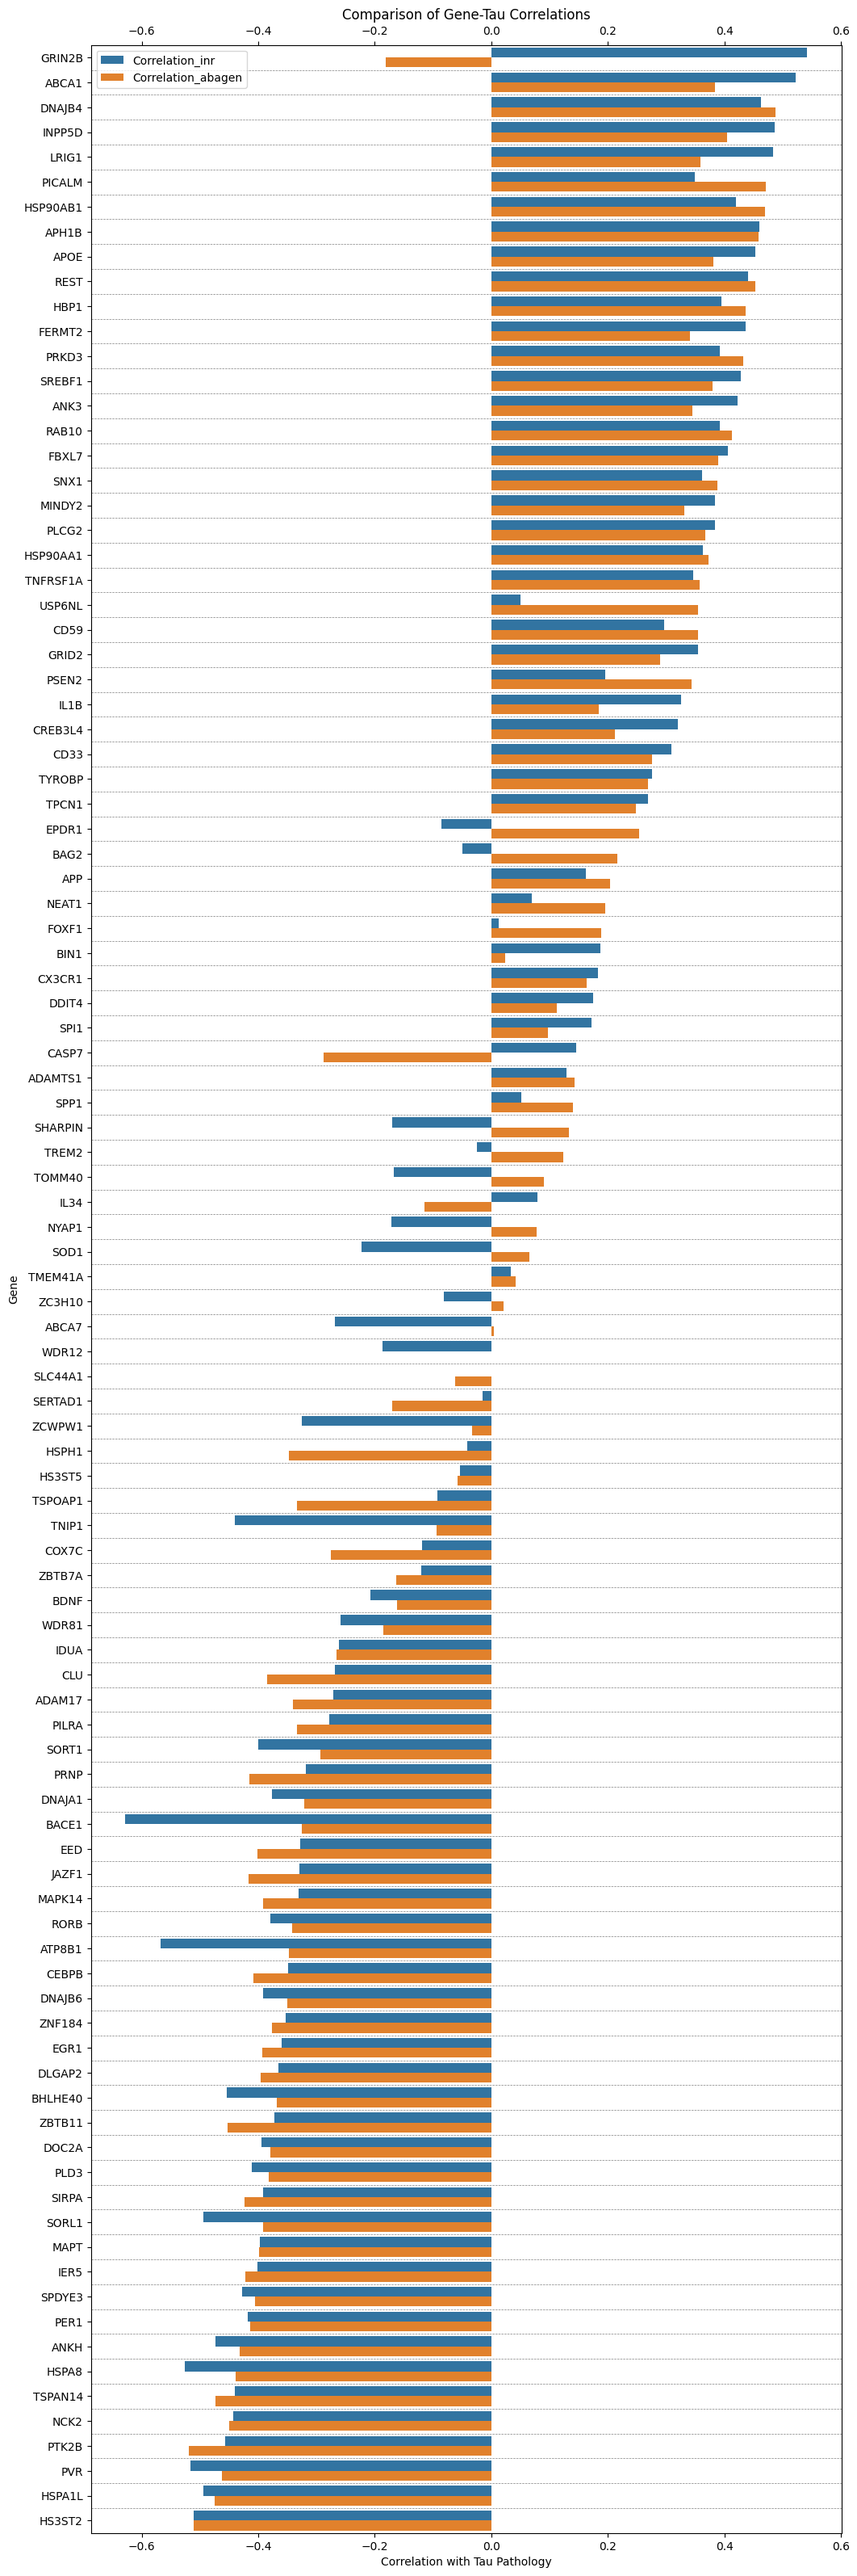
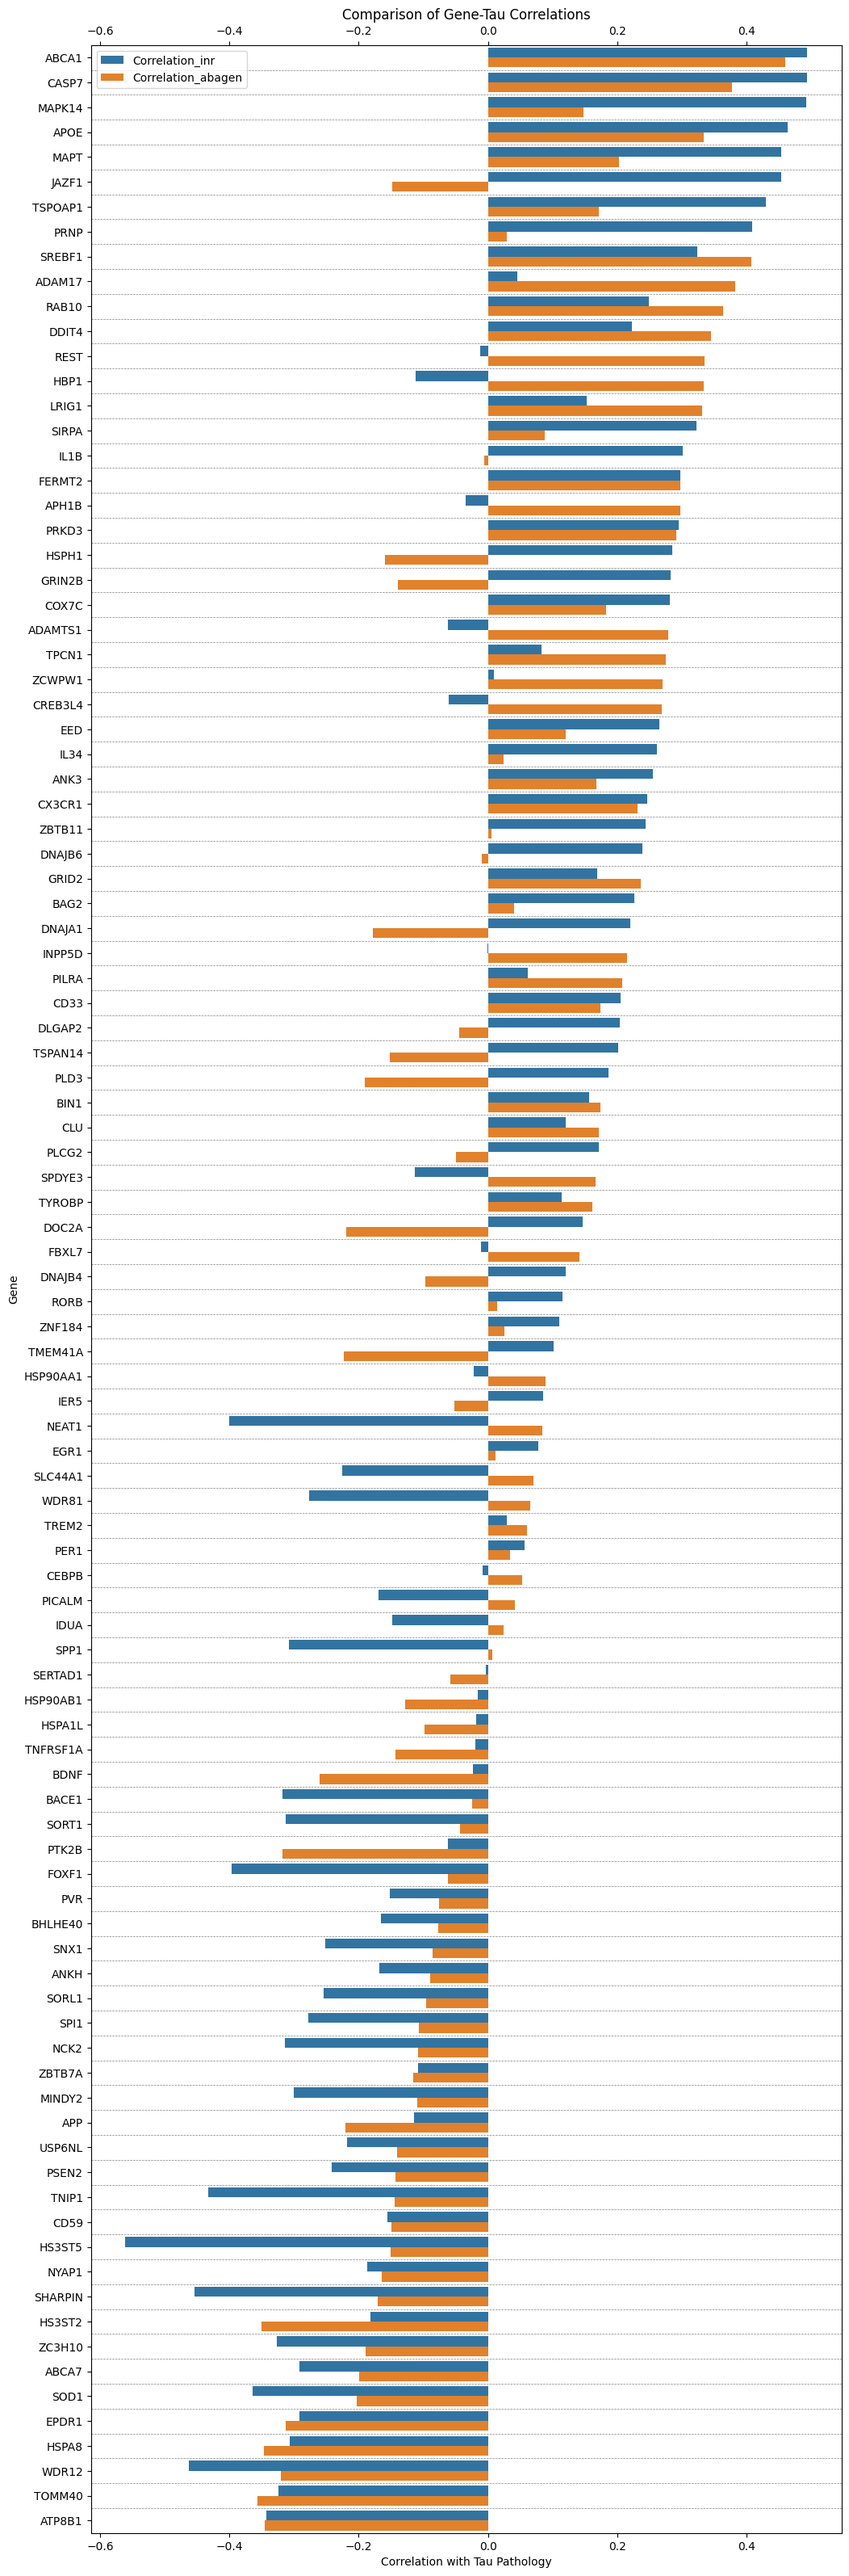
update

diff --git a/train_gene_net.py b/train_gene_net.py
@@ -145,7 +145,7 @@ def train(config):
             
             if loss < prev_loss:
                 model_path_prefix = (
-                    f"./models_test/{config.nonlin}_{config.matter}_{config.donor}_{config.lr}_"
+                    f"./models_new/{config.nonlin}_{config.matter}_{config.donor}_{config.lr}_"
                     f"{5 + 2 * config.encoding_dim}x"
                     f"{config.hidden_features}x"
                     f"{config.hidden_layers}_"
@@ -198,7 +198,7 @@ def train(config):
             'max_coords': brain.max_coords.numpy().item()
         }
             
-        with open(f'./models_test/max_min_values_{config.gene_order}_sep.csv', 'a') as file:
+        with open(f'./models_new/max_min_values_{config.gene_order}_sep.csv', 'a') as file:
             writer = csv.writer(file)
             row = [str(value) for value in min_max_dict.values()]
             writer.writerow(row)
@@ -213,17 +213,17 @@ def train(config):
     
 def main():
     # matter: 83 or 246 depends on different atlas
-    wandb.init(project="brain_fitting526", entity="yuxizheng", config={
+    wandb.init(project="brain_111", entity="yuxizheng", config={
         "nonlin": 'siren', # 'wire' 'gauss' 'mfn' 'relu' 'siren' 'wire2d'
-        "matter": "83",
+        "matter": "83_new",
         "gene_order": "se",
         "lr": 1e-4,
         "hidden_layers": 12,
         "hidden_features": 512,
         "total_steps": 10000,
         "encoding_dim": 11,
-        "donor": "14380",
-        "device": 'cuda:3',
+        "donor": "10021",
+        "device": 'cuda:0',
     })
     
     train(wandb.config)
@@ -240,24 +240,24 @@ def main_sweep():
         train(wandb.config)
 
 if __name__ == "__main__":
-    sweep_configuration = {
-        "method": "grid", # bayes
-        "metric": {"goal": "minimize", "name": "loss"},
-        "parameters": {
-            "nonlin": {"values": ['siren', 'wire', 'gauss', 'relu']},
-            "matter": {"values": ['83']},
-            "gene_order": {"values": ['se']},
-            "lr": {"values": [1e-3, 3e-3, 5e-3, 1e-4,]},
-            "hidden_layers": {"values": [12]},
-            "hidden_features": {"values": [512]},
-            "total_steps": {"values": [10000]},
-            "encoding_dim": {"values": [11]},
-            # "donor": {"values": ['9861']},
-            "donor": {"values": ['9861', '10021', '12876', '14380', '15496', '15697']},
-            "device": {"values": ['cuda:3']},
-        },
-    }
+    # sweep_configuration = {
+    #     "method": "grid", # bayes
+    #     "metric": {"goal": "minimize", "name": "loss"},
+    #     "parameters": {
+    #         "nonlin": {"values": ['siren', 'wire', 'gauss', 'relu']},
+    #         "matter": {"values": ['83']},
+    #         "gene_order": {"values": ['se']},
+    #         "lr": {"values": [1e-3, 3e-3, 5e-3, 1e-4,]},
+    #         "hidden_layers": {"values": [12]},
+    #         "hidden_features": {"values": [512]},
+    #         "total_steps": {"values": [10000]},
+    #         "encoding_dim": {"values": [11]},
+    #         # "donor": {"values": ['9861']},
+    #         "donor": {"values": ['9861', '10021', '12876', '14380', '15496', '15697']},
+    #         "device": {"values": ['cuda:3']},
+    #     },
+    # }
 
-    sweep_id = wandb.sweep(sweep=sweep_configuration, project="brain_sweep")
-    wandb.agent(sweep_id, function=main_sweep)
-    # main()
+    # sweep_id = wandb.sweep(sweep=sweep_configuration, project="brain_sweep")
+    # wandb.agent(sweep_id, function=main_sweep)
+    main()

diff --git a/src/data/ii_pc1_se.py b/src/data/ii_pc1_se.py
@@ -13,7 +13,7 @@ def get_pc1_se_results(donor, matter="83"):
         
     gene_names = set(gene_names)
 
-    microarray_df = pd.read_csv(f"./data/abagendata/train_{matter}/{matter}_microarray_{donor}.csv")
+    microarray_df = pd.read_csv(f"./data/abagendata/train_{matter}_new/{matter}_microarray_{donor}.csv")
     microarray_df = microarray_df.iloc[:, 1:].T
     microarray_df.columns = microarray_df.iloc[0].astype(int).astype(str)
     microarray_df = microarray_df.iloc[1:]
@@ -40,7 +40,7 @@ def get_pc1_se_results(donor, matter="83"):
     gene_df_pca = gene_df_pca.sort_values(by="pc1", ascending=True)
     # gene_df_pca = gene_df_pca[['pc1']]
     # save gene_df to a new csv file
-    gene_df_pca.to_csv(f"./data/abagendata/train_{matter}/pc1_{donor}.csv")
+    gene_df_pca.to_csv(f"./data/abagendata/train_{matter}_new/pc1_{donor}.csv")
 
 
     # Spectrum Embedding
@@ -53,14 +53,14 @@ def get_pc1_se_results(donor, matter="83"):
     # gene_df_embedding = gene_df_embedding[['embedding']]
     scaler = MinMaxScaler()
     gene_df_embedding['se'] = scaler.fit_transform(gene_df_embedding[['se']])
-    gene_df_embedding.to_csv(f"./data/abagendata/train_{matter}/se_{donor}.csv")
+    gene_df_embedding.to_csv(f"./data/abagendata/train_{matter}_new/se_{donor}.csv")
     
 
 get_pc1_se_results("9861")
 get_pc1_se_results("10021")
-get_pc1_se_results("12876")
-get_pc1_se_results("14380")
-get_pc1_se_results("15496")
-get_pc1_se_results("15697")
+# get_pc1_se_results("12876")
+# get_pc1_se_results("14380")
+# get_pc1_se_results("15496")
+# get_pc1_se_results("15697")
 
 # exec(open('./src/data/pc1_se.py').read())

diff --git a/src/data/iii_data_merge.py b/src/data/iii_data_merge.py
@@ -5,8 +5,8 @@ import pandas as pd
 import numpy as np
 
 def merge_5d(mode, donor, matter='83'):
-    df = pd.read_csv(f"data/abagendata/train_{matter}/{mode}_{donor}.csv")
-    annot = pd.read_csv(f"data/abagendata/train_{matter}/{matter}_annotation_{donor}_4d.csv")
+    df = pd.read_csv(f"data/abagendata/train_{matter}_new/{mode}_{donor}.csv")
+    annot = pd.read_csv(f"data/abagendata/train_{matter}_new/{matter}_annotation_{donor}_4d.csv")
     df_long = df.melt(id_vars=[mode, 'gene_symbol'], var_name='well_id', value_name='value')
     annot = annot[["mni_x", "mni_y", "mni_z", "classification", "well_id"]]
     
@@ -19,13 +19,13 @@ def merge_5d(mode, donor, matter='83'):
     print(merged_df)
     merged_df = merged_df[['gene_symbol', 'well_id', 'mni_x', 'mni_y', 'mni_z', 'classification', 'value', mode]]
     merged_df = merged_df.sort_values(by=['gene_symbol', 'well_id'])
-    merged_df.to_csv(f"data/abagendata/train_{matter}/{mode}_{donor}_merged.csv", index=False)
+    merged_df.to_csv(f"data/abagendata/train_{matter}_new/{mode}_{donor}_merged.csv", index=False)
 
 merge_5d('se', '9861')
 merge_5d('se', "10021")
-merge_5d('se', "12876")
-merge_5d('se', "14380")
-merge_5d('se', "15496")
-merge_5d('se', "15697")
+# merge_5d('se', "12876")
+# merge_5d('se', "14380")
+# merge_5d('se', "15496")
+# merge_5d('se', "15697")
 
 # exec(open('./src/data/data_merge.py').read())

diff --git a/inference.py b/inference.py
@@ -95,7 +95,7 @@ def inference(id, matter, atlas, model_path, donor, all_records=False, order_val
 
     if matter == "white":
         classification_val = 1  # 1 for white
-    elif matter == "grey" or matter in ["246", "83"]:
+    elif matter == "grey" or matter in ["246", "83", "83_new"]:
         classification_val = -1  # -1 for grey
     else:
         print("Error in Brain Matter selection")
@@ -139,8 +139,8 @@ def inference(id, matter, atlas, model_path, donor, all_records=False, order_val
 
 
 # id = "1058685"
-matter = "83" # "grey" / "246" / "83"
-donor = "14380"
+matter = "83_new" # "grey" / "246" / "83"
+donor = "10021"
 # atlas = f"MNI152_T1_1mm_brain_{matter}_mask_int"
 # atlas = 'BN_Atlas_246_1mm'
 atlas = 'atlas-desikankilliany'
@@ -153,7 +153,7 @@ for i, row in tqdm(df.iterrows(), total=df.shape[0]):
     order_val = row['se']
     if all_records:
         # model_path = f'./models_test/model_{matter}_0.0001_21x512x12_7.37e-13.pth'
-        model_path = f'./models_test/siren_83_14380_0.0001_27x512x12_4.12e-08.pth'
+        model_path = f'./models_new/siren_83_new_10021_0.0001_27x512x12_7.27e-07.pth'
     else:
         model_path = f'./models_test/se_{id}.pth'
     inference(id, matter, atlas, model_path, donor, all_records, order_val)

diff --git a/avg_inr_atlas.py b/avg_inr_atlas.py
@@ -37,7 +37,7 @@ def avg_atlas(gene_atlas_path, atlas, donor, matter):
     
     new_img = nib.Nifti1Image(new_gene_data, atlas_with_genes.affine)
     nib.save(new_img, output_path)
-    print(f"Interpolated {output_path} Success!")
+    # print(f"Interpolated {output_path} Success!")
     return avg_map
 
 with open("./data/gene_names.csv") as f:
@@ -47,8 +47,8 @@ with open("./data/gene_names.csv") as f:
 gene_names = list(set(gene_names))
 gene_names.sort()
 
-matter = "83" # "246"
-donor = "14380"
+matter = "83_new" # "246"
+donor = "10021"
 # atlas = "BN_Atlas_246_1mm"
 atlas = "atlas-desikankilliany"
 full_records = True
@@ -74,7 +74,7 @@ if full_records:
 else:
     df.to_csv(f'./data/result_{matter}_{donor}_inr_avg.csv')
 
-df_abagen = pd.read_csv(f"./data/abagendata/abagen_output/{matter}_interpolate_microarray_{donor}.csv", index_col='label')
-gene_names.remove('NEAT')
-df_abagen = df_abagen[gene_names]
-df_abagen.to_csv(f'./data/result_{matter}_{donor}_abagen.csv')
+# df_abagen = pd.read_csv(f"./data/abagendata/abagen_output/{matter}_interpolate_microarray_{donor}.csv", index_col='label')
+# gene_names.remove('NEAT')
+# df_abagen = df_abagen[gene_names]
+# df_abagen.to_csv(f'./data/result_{matter}_{donor}_abagen.csv')

diff --git a/tau.py b/tau.py
@@ -2,16 +2,20 @@ import pandas as pd
 import matplotlib.pyplot as plt
 import seaborn as sns
 
+donor_list = ['9861', '10021', '12876', '14380', '15496', '15697']
+donor_list = ['9861', '10021']
+
 raw_tau = pd.read_csv('./ADNI_tau.csv')
 region_meta = pd.read_csv('./atlas-desikankilliany-meta.csv')
 
-result_abagen = pd.read_csv('./data/83_interpolation_abagen.csv', index_col=0)
 dfs = []
-for donor in ['9861', '10021', '12876', '14380', '15496', '15697']:
-    dfs.append(pd.read_csv(f'./data/result_83_{donor}_inrs_avg.csv', index_col=0))
+for donor in donor_list:
+    dfs.append(pd.read_csv(f'./data/result_83_new_{donor}_inrs_avg.csv', index_col=0))
 # take average of all donors
 result_inr = pd.concat(dfs).groupby(level=0).mean()
-result_inr.to_csv('./data/83_interpolation_inrs.csv')
+result_inr.to_csv('./data/83_new_interpolation_inrs.csv')
+
+result_abagen = pd.read_csv('./data/83_new_interpolation_abagen.csv')
 result_abagen = result_abagen[result_inr.columns.to_list()]
 # take only columns that are in both datasets
 

diff --git a/src/data/i_generate4d.py b/src/data/i_generate4d.py
@@ -42,9 +42,9 @@ def generate4d(filename):
     meta_df.to_csv(f"{filename}_4d.csv", index=False)
 
 matter = "83"
-generate4d(f"./data/abagendata/train_{matter}/{matter}_annotation_9861")
-generate4d(f"./data/abagendata/train_{matter}/{matter}_annotation_10021")
-generate4d(f"./data/abagendata/train_{matter}/{matter}_annotation_12876")
-generate4d(f"./data/abagendata/train_{matter}/{matter}_annotation_14380")
-generate4d(f"./data/abagendata/train_{matter}/{matter}_annotation_15496")
-generate4d(f"./data/abagendata/train_{matter}/{matter}_annotation_15697")
+generate4d(f"./data/abagendata/train_{matter}_new/{matter}_annotation_9861")
+generate4d(f"./data/abagendata/train_{matter}_new/{matter}_annotation_10021")
+# generate4d(f"./data/abagendata/train_{matter}/{matter}_annotation_12876")
+# generate4d(f"./data/abagendata/train_{matter}/{matter}_annotation_14380")
+# generate4d(f"./data/abagendata/train_{matter}/{matter}_annotation_15496")
+# generate4d(f"./data/abagendata/train_{matter}/{matter}_annotation_15697")
